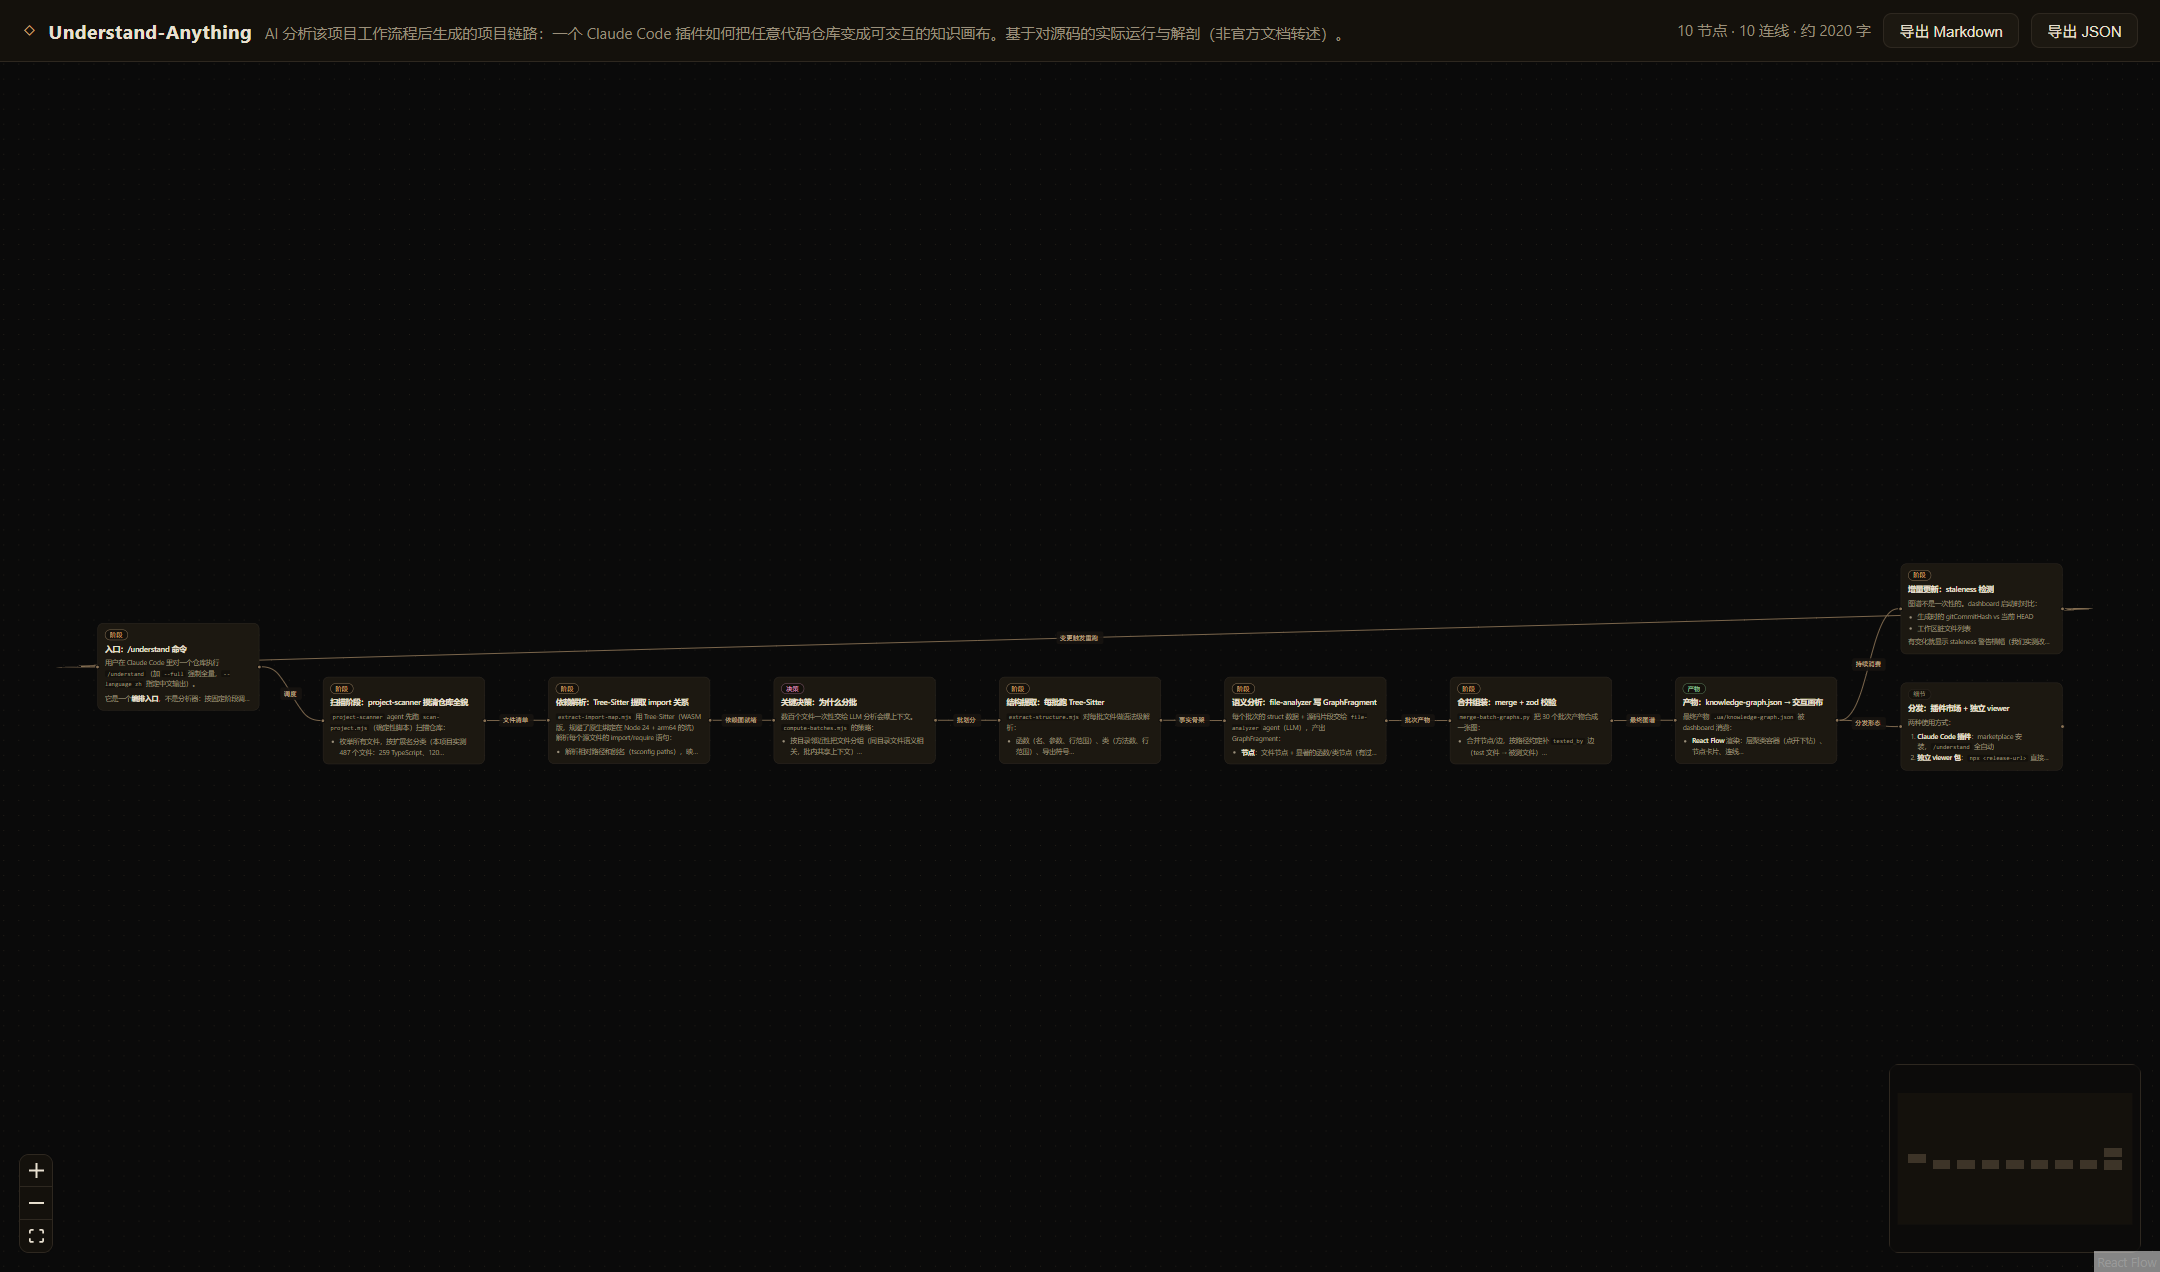
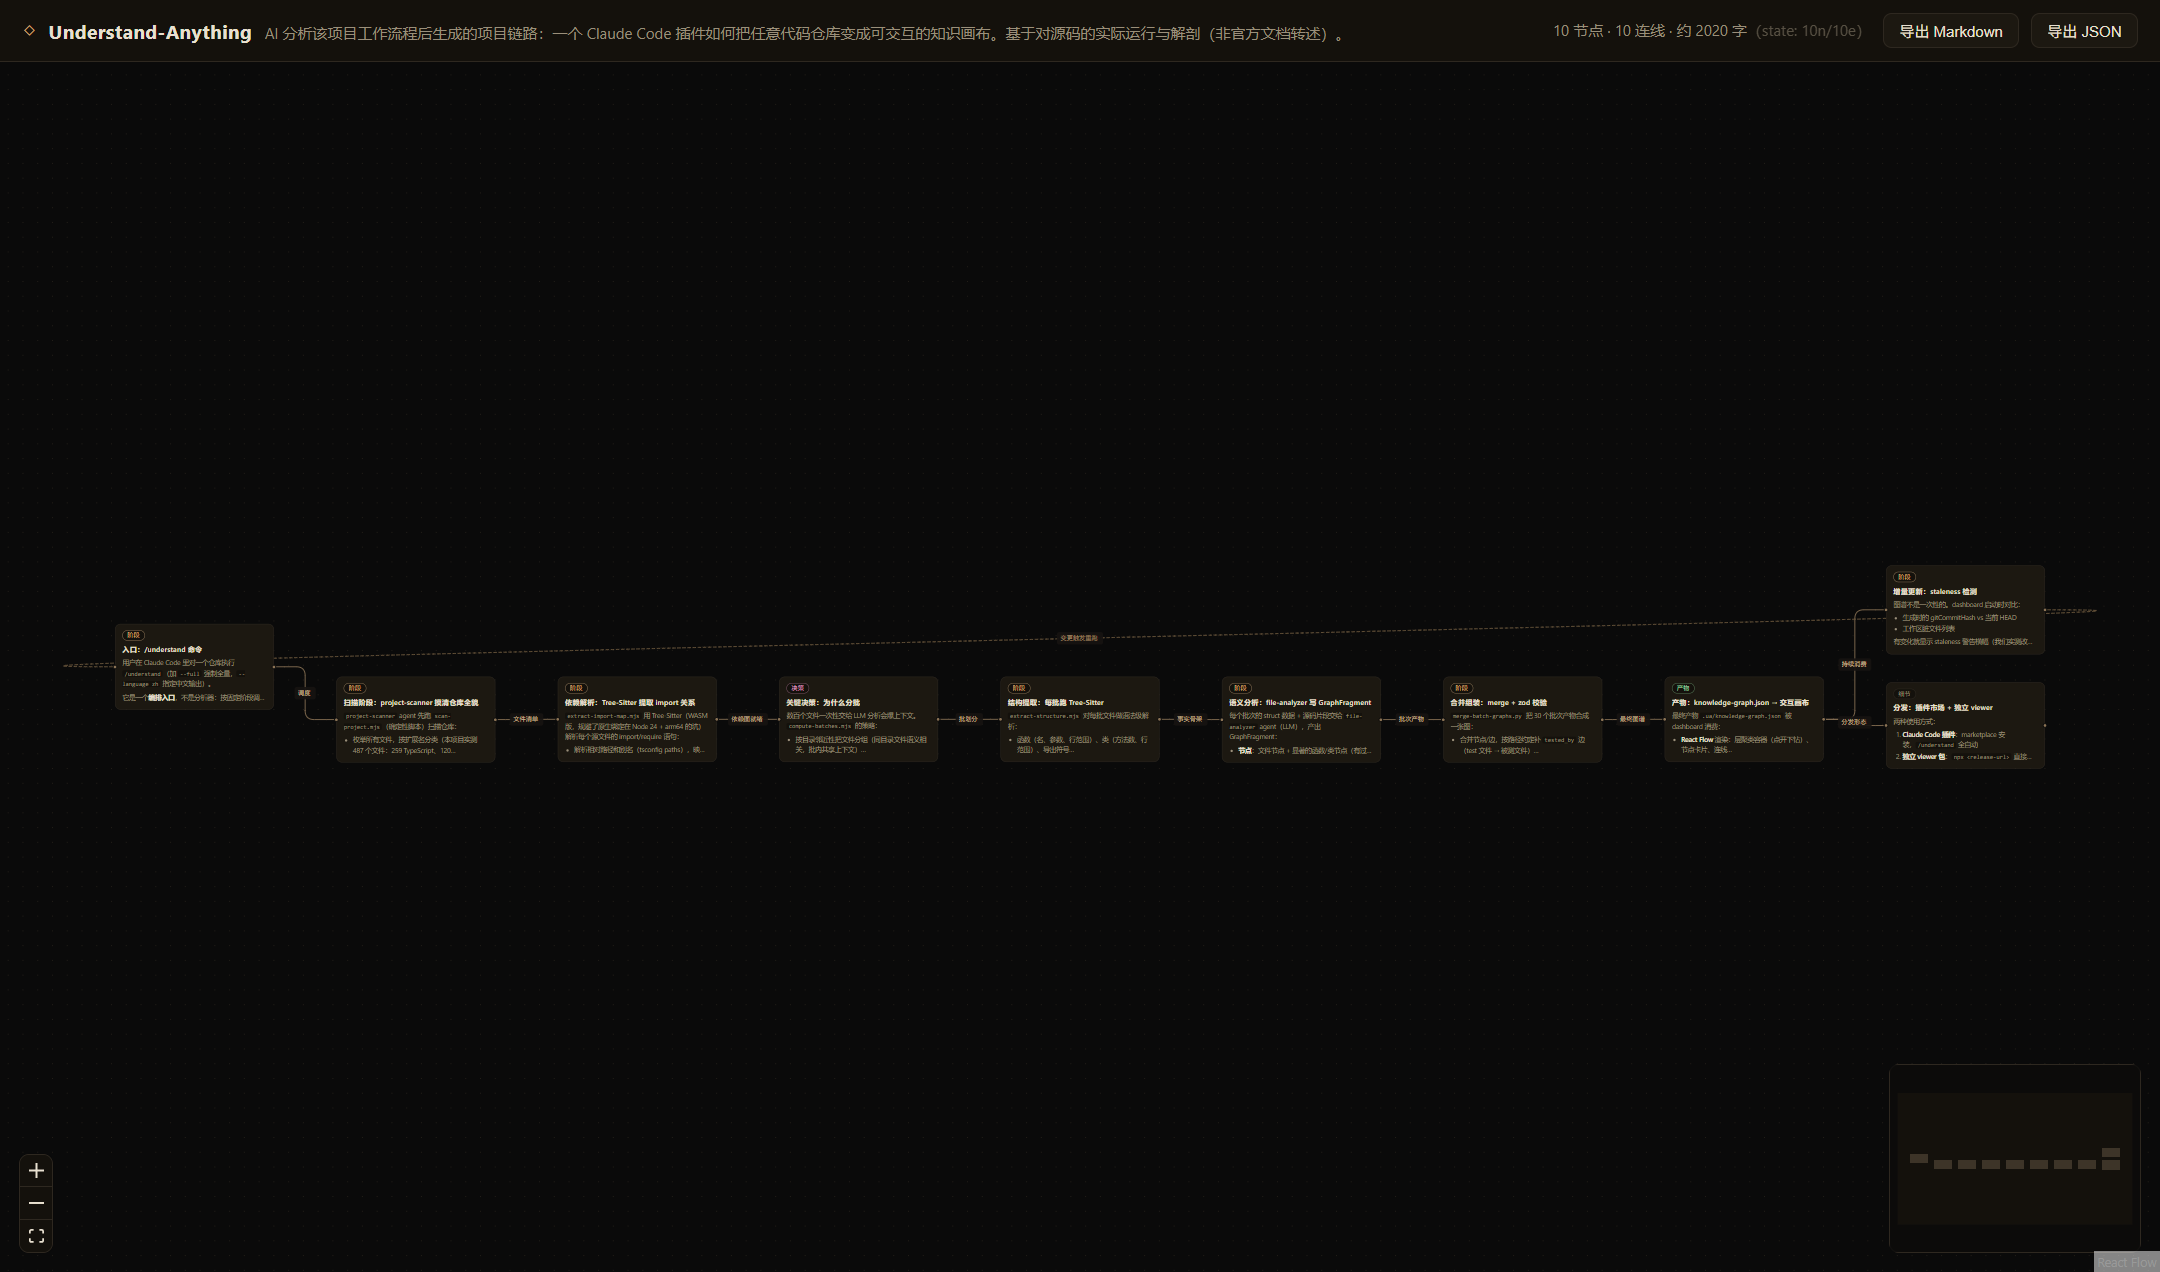
feat: RankEdge custom edge — rounded orthogonal forward, dashed arc back-edges
- custom edge component: forward edges get smoothstep routing (borderRadius 16,
  offset 14), back edges (target left of source) get dashed bezier arc
- all edges render through one custom type, immune to the built-in
  smoothstep-with-cycle silent vanish
- verified fresh-tab: UA file 10/10 edges, sample 7/7, tsc clean
- meta line shows live state counts (10n/10e) for future debugging
- NOTE: earlier 'hybrid failed / RankEdge failed' readings were instrumentation
  artifacts: duplicate addScriptToEvaluateOnNewDocument hooks threw
  'Identifier oe already declared' before page scripts, poisoning old tabs;
  fresh CDP tabs show everything working

diff --git a/src/RankEdge.tsx b/src/RankEdge.tsx
@@ -1,0 +1,76 @@
+import { memo } from "react";
+import {
+  getBezierPath,
+  getSmoothStepPath,
+  BaseEdge,
+  type EdgeProps,
+} from "@xyflow/react";
+
+/**
+ * Rank-aware flow edge.
+ *
+ * React Flow's built-in smoothstep edges vanish SILENTLY when the graph
+ * contains a cycle (verified by controlled experiment). We therefore render
+ * every edge through this custom component:
+ *
+ * - forward edge (target right of source): rounded orthogonal step path
+ * - back edge (cycle re-entry): dashed bezier arc that swings around
+ */
+function RankEdgeInner({
+  id,
+  sourceX,
+  sourceY,
+  targetX,
+  targetY,
+  sourcePosition,
+  targetPosition,
+  label,
+  markerEnd,
+}: EdgeProps) {
+  const isBackEdge = targetX <= sourceX;
+
+  const [path, labelX, labelY] = isBackEdge
+    ? getBezierPath({
+        sourceX,
+        sourceY,
+        targetX,
+        targetY,
+        sourcePosition,
+        targetPosition,
+        curvature: 0.55,
+      })
+    : getSmoothStepPath({
+        sourceX,
+        sourceY,
+        targetX,
+        targetY,
+        sourcePosition,
+        targetPosition,
+        borderRadius: 16,
+        offset: 14,
+      });
+
+  return (
+    <BaseEdge
+      id={id}
+      path={path}
+      label={label}
+      labelX={labelX}
+      labelY={labelY}
+      labelShowBg
+      labelBgPadding={[6, 3]}
+      labelBgBorderRadius={4}
+      labelBgStyle={{ fill: "#161310", fillOpacity: 0.92 }}
+      labelStyle={{ fill: isBackEdge ? "#a08a68" : "#c9b896", fontSize: 11 }}
+      style={
+        isBackEdge
+          ? { stroke: "#6f5a3e", strokeWidth: 1.5, strokeDasharray: "6 3" }
+          : { stroke: "#8b7355", strokeWidth: 1.5 }
+      }
+      markerEnd={markerEnd}
+    />
+  );
+}
+
+const RankEdge = memo(RankEdgeInner);
+export default RankEdge;

diff --git a/src/layout.ts b/src/layout.ts
@@ -25,8 +25,11 @@ export function layoutFlow(file: FlowFile): { nodes: Node[]; edges: Edge[] } {
   }
   dagre.layout(g);
 
+  // node positions, shared with edge direction classification
+  const posById = new Map<string, { x: number; y: number }>();
   const nodes: Node[] = file.nodes.map((n) => {
     const p = g.node(n.id);
+    posById.set(n.id, { x: p.x, y: p.y });
     return {
       id: n.id,
       type: "flow",
@@ -41,18 +44,15 @@ export function layoutFlow(file: FlowFile): { nodes: Node[]; edges: Edge[] } {
   const edges: Edge[] = file.edges
     .filter((e) => ids.has(e.source) && ids.has(e.target))
     .map((e, i) => {
-      // smoothstep edges vanish SILENTLY when the topology contains a cycle
-      // (verified by controlled experiment); plain bezier is safe and clean.
+      // All edges render through RankEdge (custom component): it picks
+      // smoothstep for forward edges and a dashed bezier arc for back edges.
+      // Built-in smoothstep silently vanishes when the graph has a cycle.
       return {
         id: `e${i}-${e.source}-${e.target}`,
         source: e.source,
         target: e.target,
         label: e.label,
-        style: { stroke: "#8b7355", strokeWidth: 1.5 },
-        labelStyle: { fill: "#c9b896", fontSize: 11 },
-        labelBgStyle: { fill: "#161310", fillOpacity: 0.9 },
-        labelBgPadding: [6, 3] as [number, number],
-        labelBgBorderRadius: 4,
+        type: "rank",
       };
     });
 

diff --git a/src/App.tsx b/src/App.tsx
@@ -17,9 +17,11 @@ import type { FlowFile } from "./types";
 import { layoutFlow } from "./layout";
 import FlowNodeCard from "./FlowNodeCard";
 import DetailPanel from "./DetailPanel";
+import RankEdge from "./RankEdge";
 import { toMarkdown, fileStats } from "./export";
 
 const nodeTypes = { flow: FlowNodeCard };
+const edgeTypes = { rank: RankEdge };
 
 function downloadText(name: string, text: string, mime = "text/plain") {
   const blob = new Blob([text], { type: `${mime};charset=utf-8` });
@@ -83,7 +85,10 @@ function Canvas() {
           <span className="sub">{file?.description}</span>
         </div>
         <div className="actions">
-          <div className="meta">{file ? fileStats(file) : ""}</div>
+          <div className="meta">
+            {file ? fileStats(file) : ""}
+            <span style={{ opacity: 0.5 }}>（state: {nodes.length}n/{edges.length}e）</span>
+          </div>
           <button
             className="btn"
             disabled={!file}
@@ -105,6 +110,7 @@ function Canvas() {
           nodes={nodes}
           edges={edges}
           nodeTypes={nodeTypes}
+          edgeTypes={edgeTypes}
           onNodesChange={onNodesChange}
           onSelectionChange={onSelectionChange}
           minZoom={0.1}
